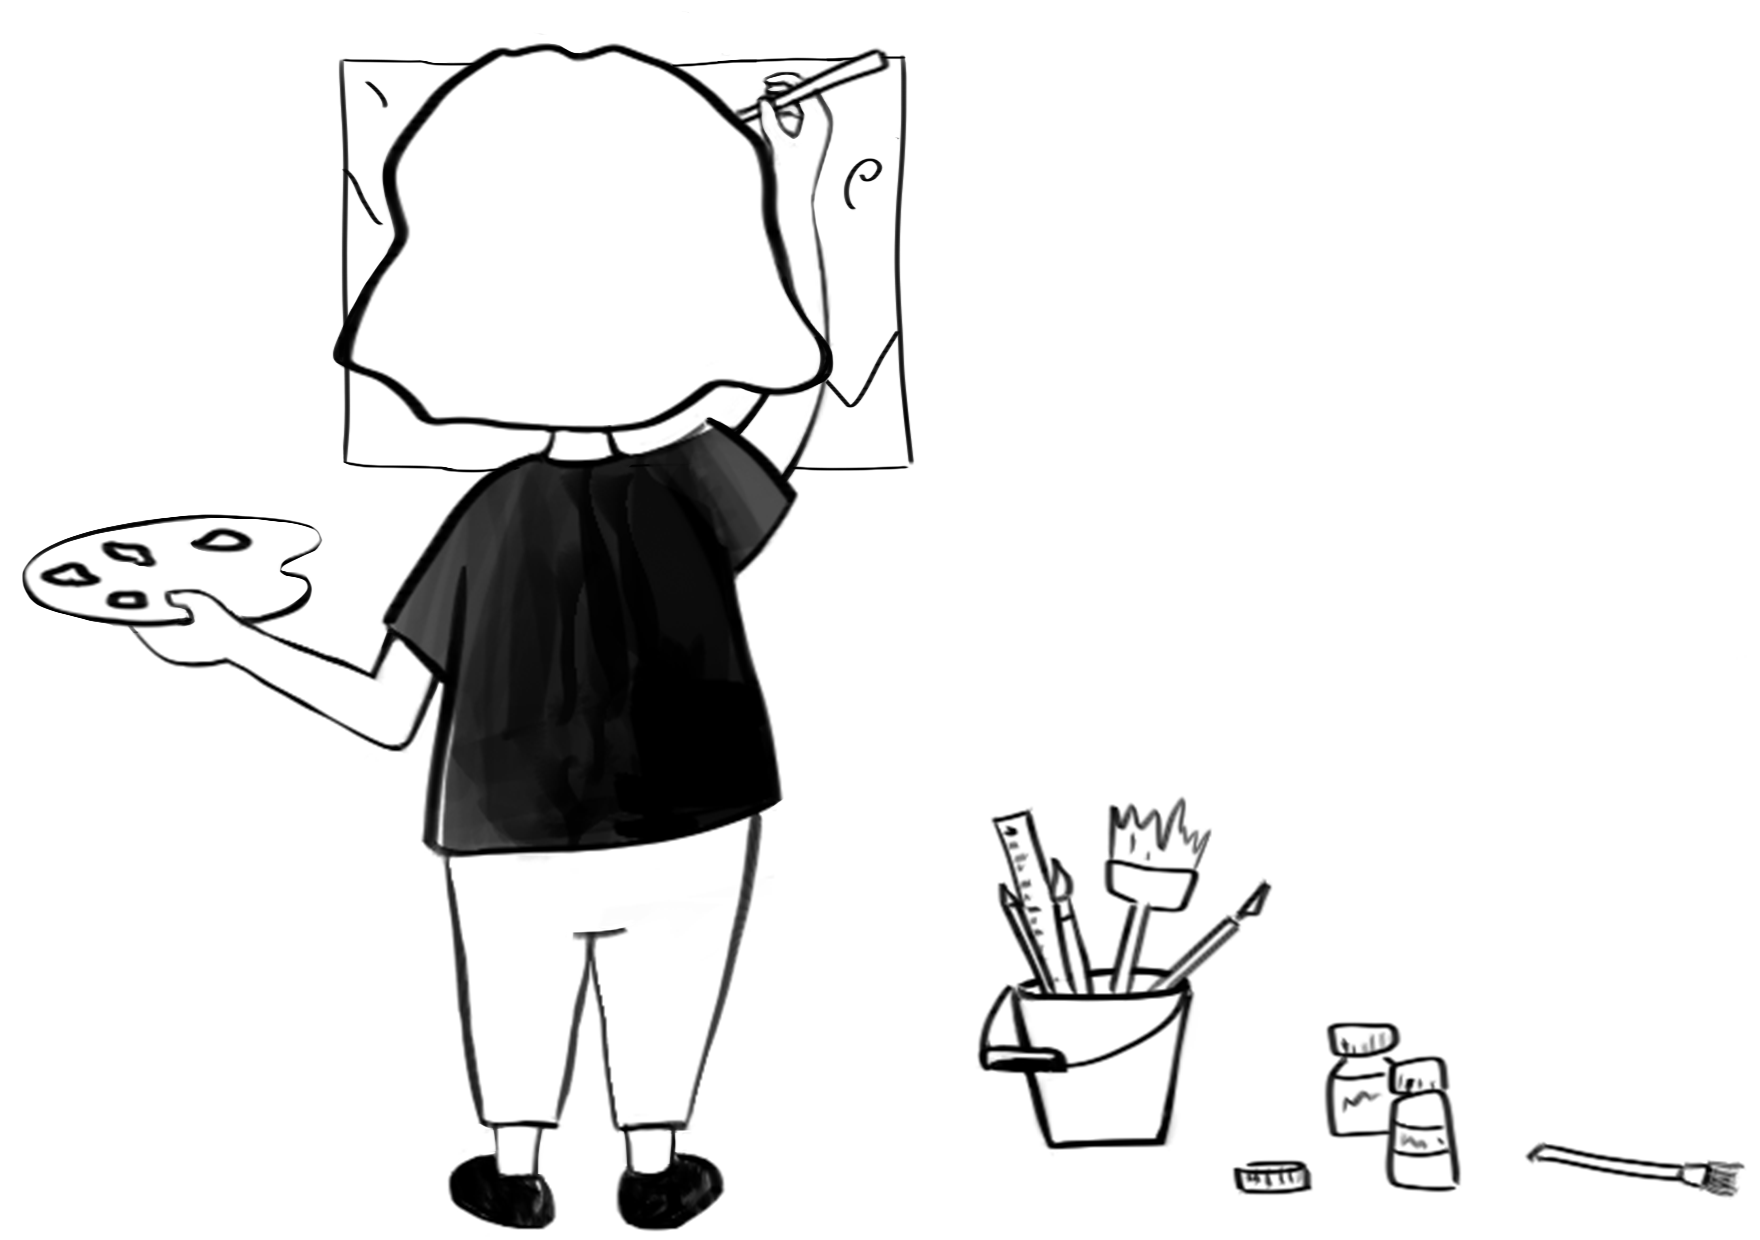
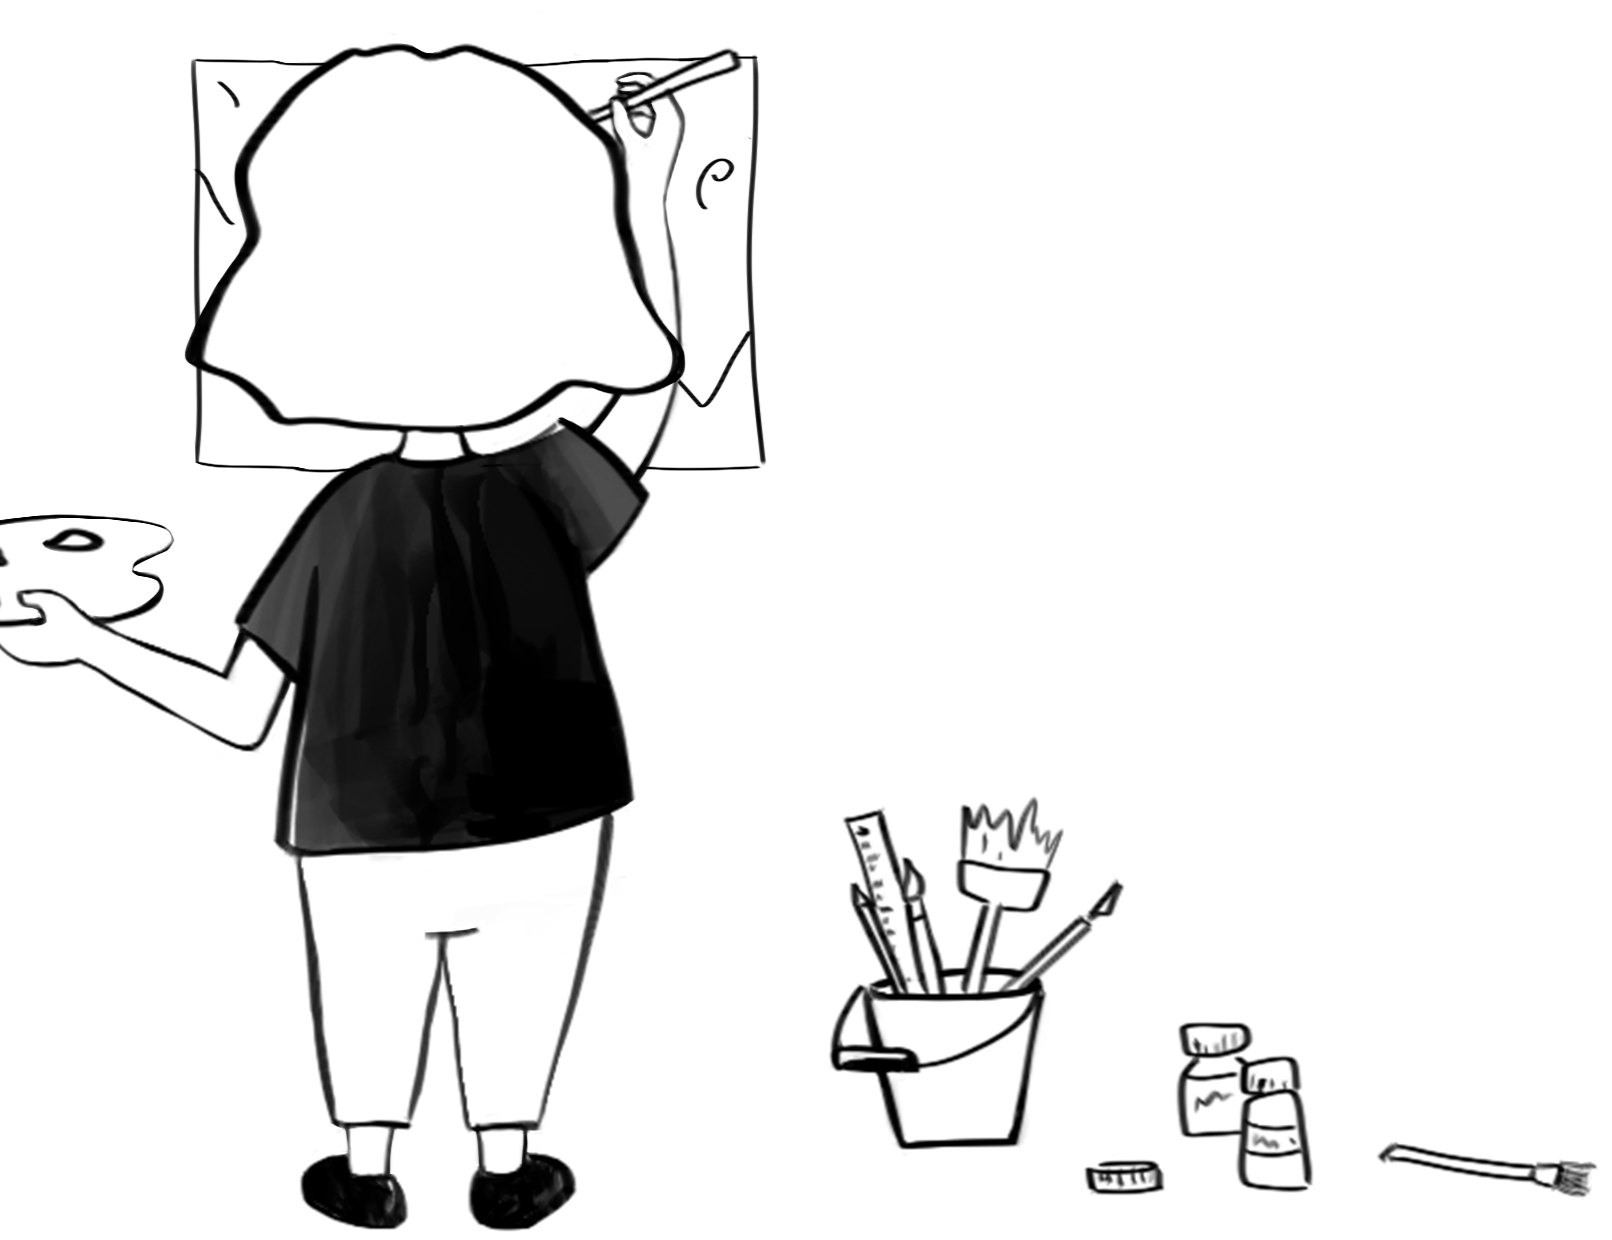
Fix

Changed region(s): [[0.0, 0.0306, 0.5273, 1.0], [0.4963, 0.6435, 0.9926, 0.9806]]

diff --git a/vuetify-project/src/pages/Home.vue b/vuetify-project/src/pages/Home.vue
@@ -40,12 +40,12 @@
     </v-row>
 
     <v-row class="row-margin-horizontal">
-      <v-col xs="3" sm="3" class="text-center col-padding-vertical">
+      <v-col xs="3" sm="3" class="text-center col-padding-vertical pr-0">
         <main-card name="Crown bed" :imageHeight="cardHeight" imgPath="src/images/MainPage/MainCards/tree.jpg" imgHoverPath="src/images/MainPage/MainCards/tree_hover.jpg"/>
       </v-col>
         
-      <v-col xs="6" sm="6" class="text-center">
-        <img class="pr-12" height="500" src="../images/MainPage/drawing.png" alt="drawing_image">
+      <v-col xs="9" sm="9" class="text-start pl-8 pt-0">
+        <img class="pr-12" height="425" src="../images/MainPage/drawing.png" alt="drawing_image">
       </v-col>
     </v-row>
   </v-container>
